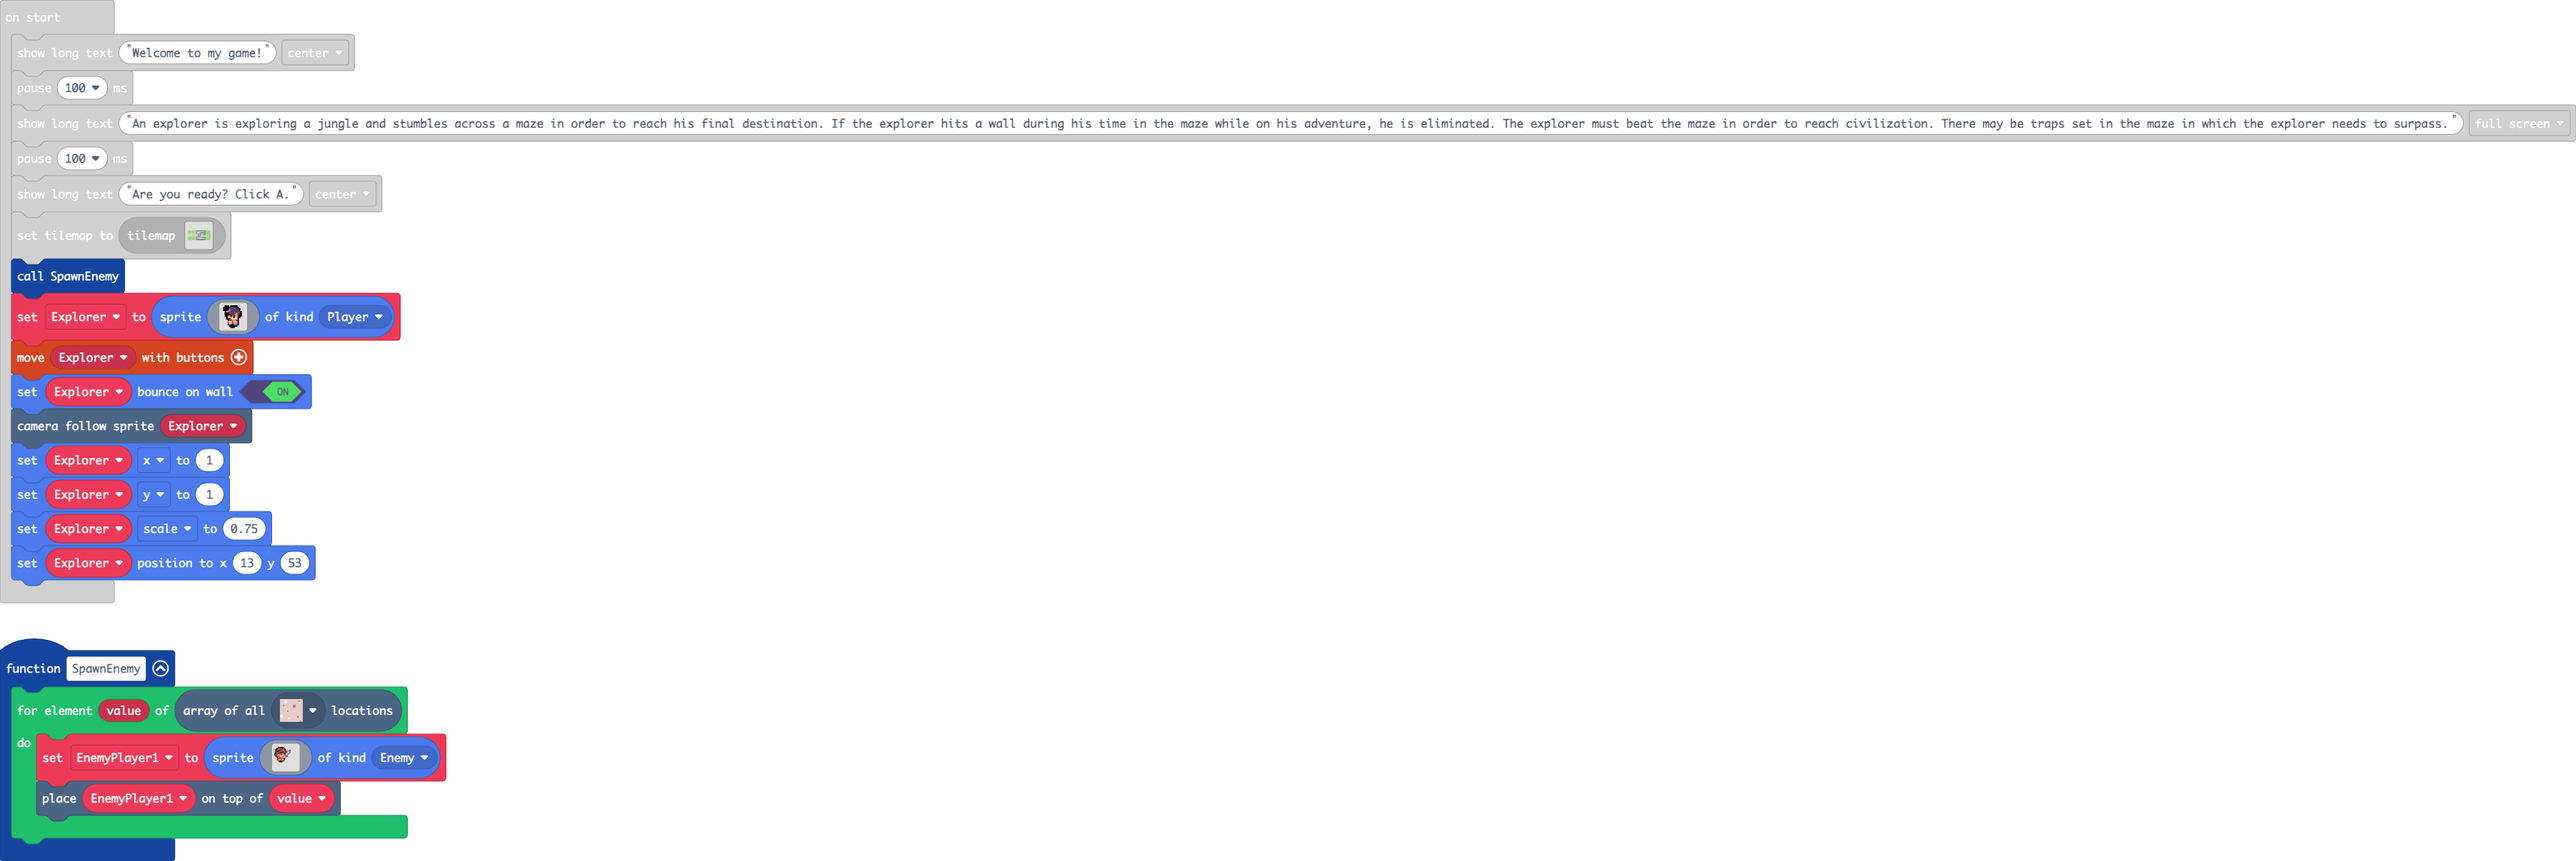
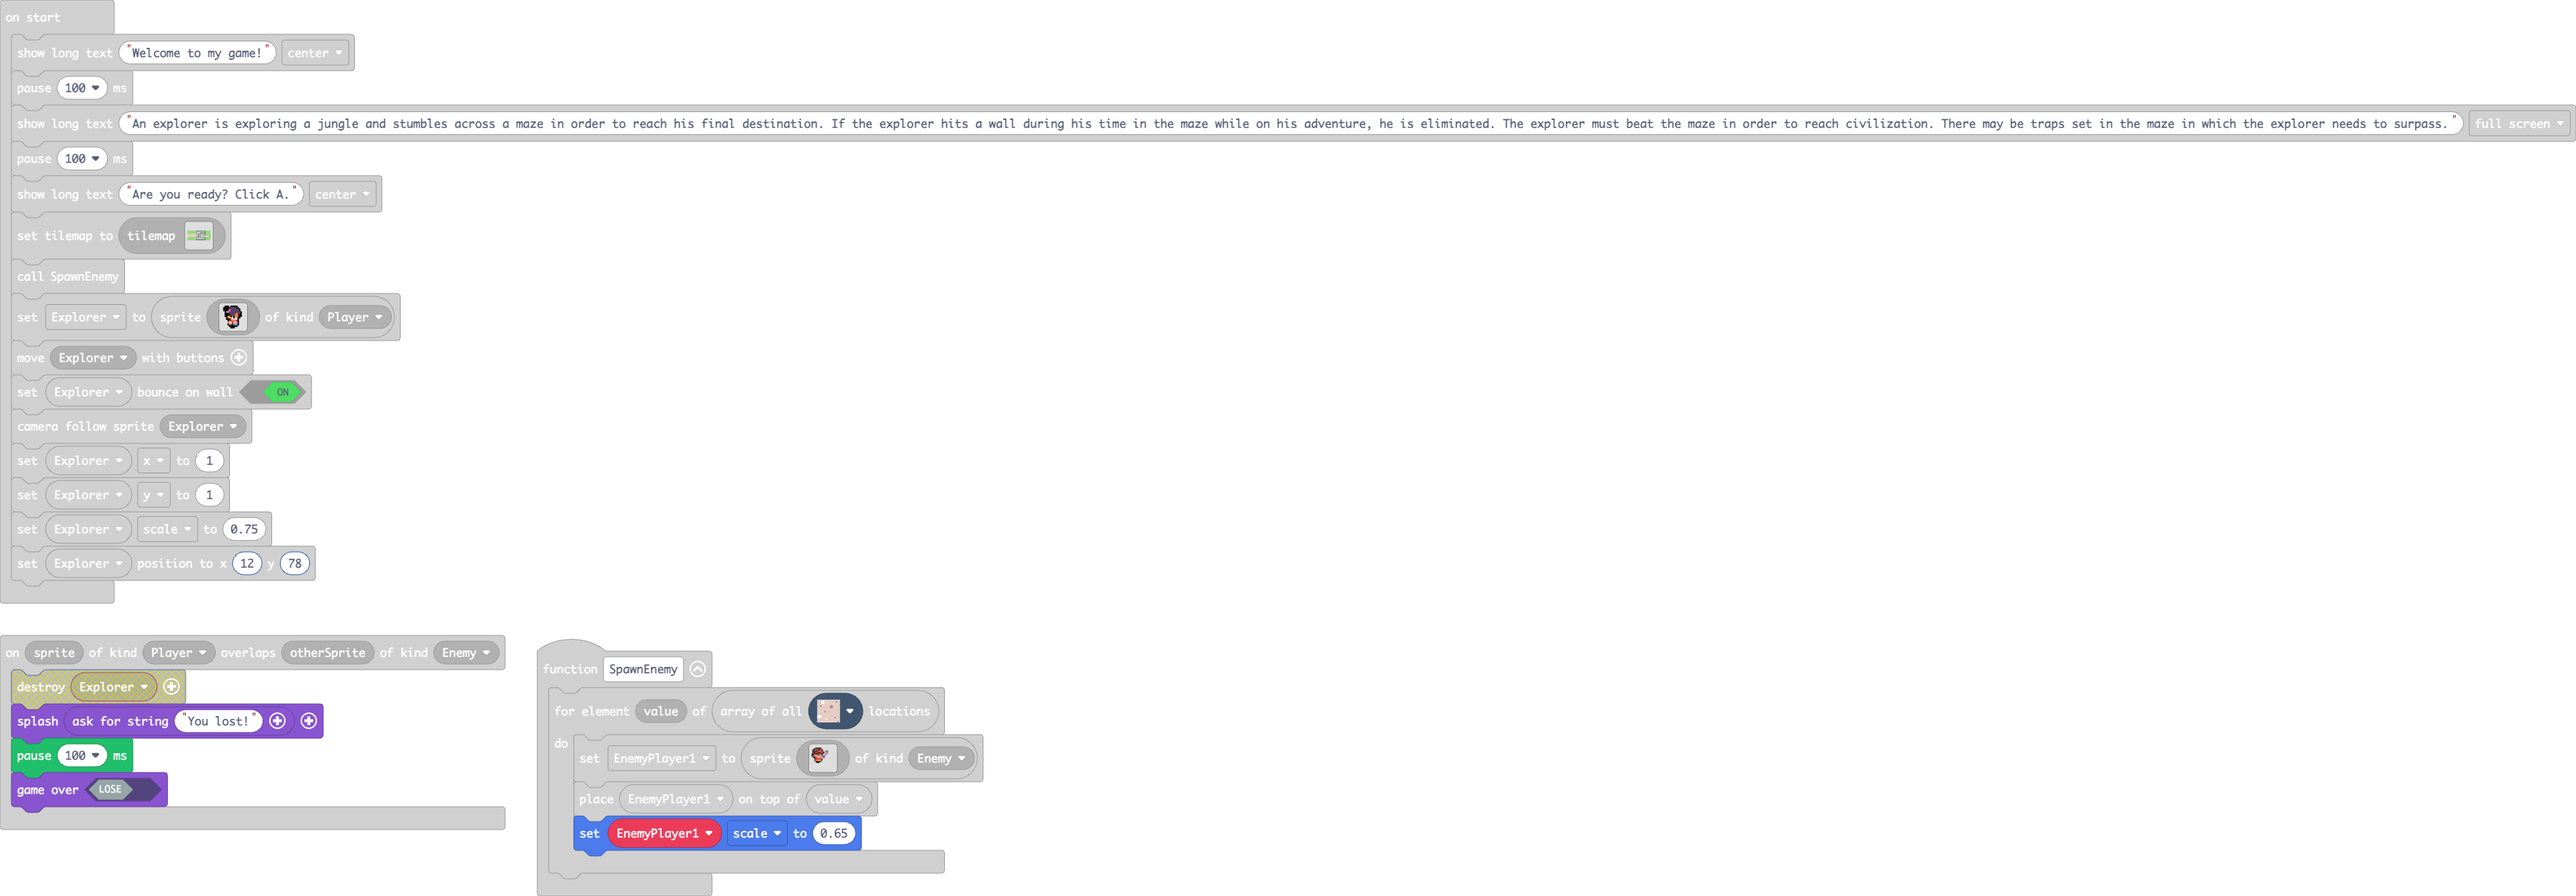
Update main.blocks, main.ts

Changed region(s): [[0.0, 0.0307, 1.0, 1.0]]

diff --git a/main.ts b/main.ts
@@ -10,7 +10,7 @@ scene.onOverlapTile(SpriteKind.Player, assets.tile`myTile1`, function (sprite, l
     game.gameOver(true)
 })
 function SpawnEnemy () {
-    for (let value of tiles.getTilesByType(sprites.castle.tilePath5)) {
+    for (let value of tiles.getTilesByType(assets.tile`myTile3`)) {
         EnemyPlayer1 = sprites.create(img`
             ........................
             ....ffffff..............
@@ -38,6 +38,7 @@ function SpawnEnemy () {
             ........................
             `, SpriteKind.Enemy)
         tiles.placeOnTile(EnemyPlayer1, value)
+        EnemyPlayer1.scale = 0.65
     }
 }
 scene.onOverlapTile(SpriteKind.Player, sprites.dungeon.greenOuterEast0, function (sprite, location) {
@@ -59,10 +60,11 @@ scene.onOverlapTile(SpriteKind.Player, sprites.dungeon.greenOuterSouthEast, func
     game.gameOver(false)
 })
 sprites.onOverlap(SpriteKind.Player, SpriteKind.Enemy, function (sprite, otherSprite) {
-    sprites.destroy(Explorer)
+    game.splash(game.askForString("You lost!"))
+    pause(100)
+    game.gameOver(false)
 })
 let EnemyPlayer1: Sprite = null
-let Explorer: Sprite = null
 game.showLongText("Welcome to my game!", DialogLayout.Center)
 pause(100)
 game.showLongText("An explorer is exploring a jungle and stumbles across a maze in order to reach his final destination. If the explorer hits a wall during his time in the maze while on his adventure, he is eliminated. The explorer must beat the maze in order to reach civilization. There may be traps set in the maze in which the explorer needs to surpass.", DialogLayout.Full)
@@ -70,7 +72,7 @@ pause(100)
 game.showLongText("Are you ready? Click A.", DialogLayout.Center)
 tiles.setCurrentTilemap(tilemap`level2`)
 SpawnEnemy()
-Explorer = sprites.create(img`
+let Explorer = sprites.create(img`
     . f f f . f f f f f . . . . 
     f f f f f c c c c f f . . . 
     f f f f b c c c c c c f . . 
@@ -94,4 +96,4 @@ scene.cameraFollowSprite(Explorer)
 Explorer.x = 1
 Explorer.y = 1
 Explorer.scale = 0.75
-Explorer.setPosition(13, 53)
+Explorer.setPosition(12, 78)
